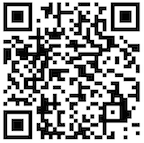
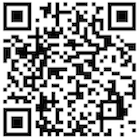
Changed background color to black

diff --git a/src/BitcoinWallet.c b/src/BitcoinWallet.c
@@ -8,12 +8,13 @@ static void layer_update_callback(Layer *me, GContext* ctx){
 
     GRect bounds = image->bounds;
     graphics_draw_bitmap_in_rect(ctx, image, (GRect) { .origin = {5, 5}, .size = bounds.size});
-    graphics_draw_bitmap_in_rect(ctx, image, (GRect) { .origin = {144, 143}, .size = bounds.size});
+    graphics_draw_bitmap_in_rect(ctx, image, (GRect) { .origin = {140, 140}, .size = bounds.size});
 
 }
 
 int main(void){
     window = window_create();
+    window_set_background_color(window, GColorBlack);
     window_stack_push(window, true);
 
     Layer *window_layer = window_get_root_layer(window);
